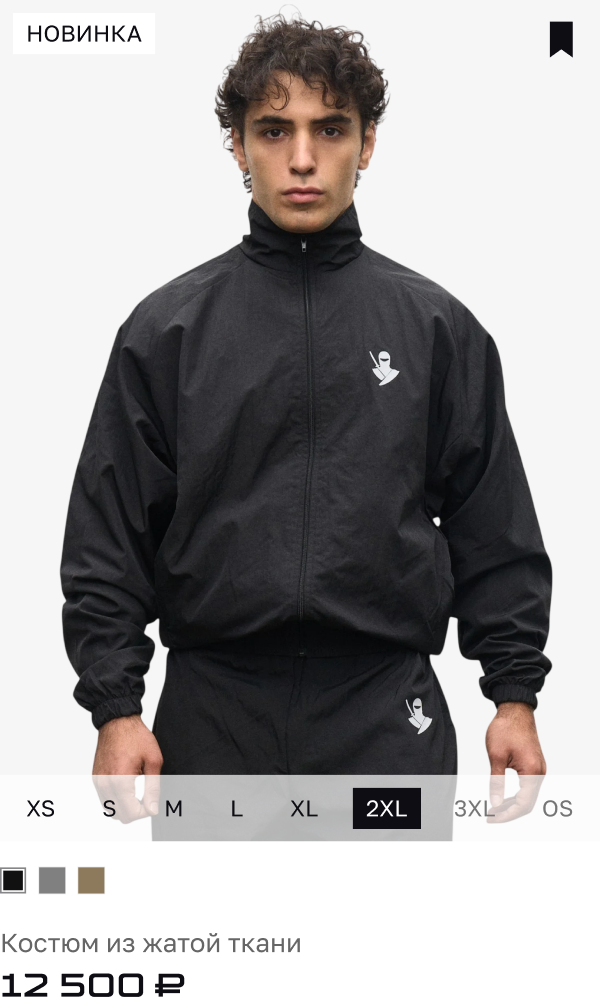
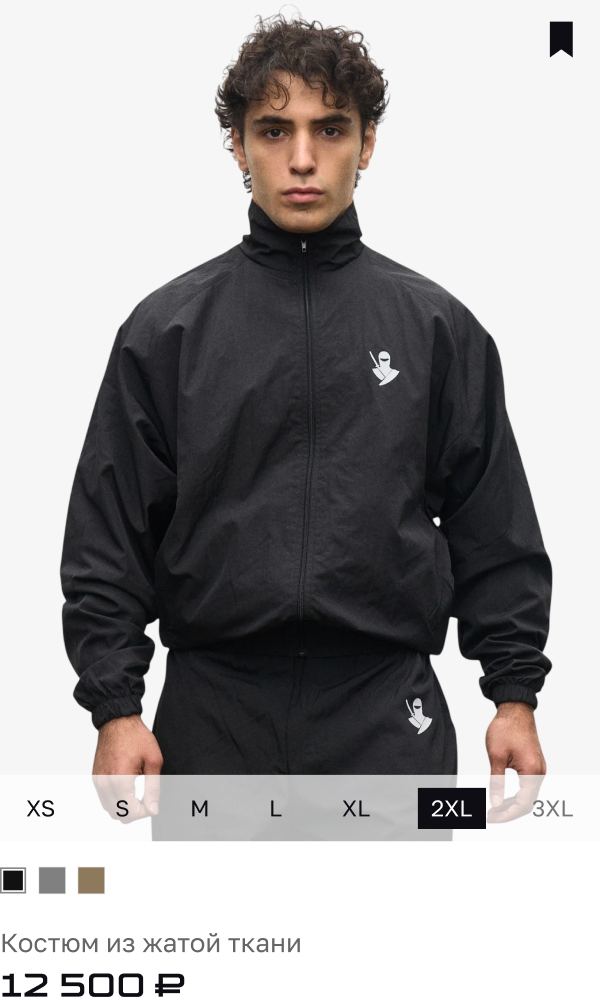
Блок 11: без «Новинки» и без OS в карточках

diff --git a/index.html b/index.html
@@ -336,9 +336,9 @@
         <div class="t k-meta" style="left:48px;top:48px">11  ·  Карточка товара</div>
         <div class="t k-meta" style="right:48px;top:48px;text-align:right">Система</div>
         <!-- Герой: место под видео взаимодействия с карточкой. Сейчас — первый кадр (hero.png). Видео вставим в конце:
-             <video src="assets/videos/…mp4" poster="assets/card/hero.png" muted loop playsinline preload="none"></video> -->
+             <video src="assets/videos/…mp4" poster="assets/card/hero.png?v=2" muted loop playsinline preload="none"></video> -->
         <div class="k-hero">
-          <div class="k-video"><img src="assets/card/hero.png" alt="Карточка товара: костюм из жатой ткани, 12 500 ₽" loading="lazy"></div>
+          <div class="k-video"><img src="assets/card/hero.png?v=2" alt="Карточка товара: костюм из жатой ткани, 12 500 ₽" loading="lazy"></div>
           <img class="play" src="assets/icons/play.svg" alt="" aria-hidden="true">
         </div>
         <div class="t k-txt" style="left:158px;top:390.8px;width:240px">Фото листаются по&nbsp;зонам наведения</div>
@@ -354,8 +354,8 @@
         <div class="r k-line" style="left:884px;top:735.3px;width:102px;height:1px"></div>
         <div class="r k-line" style="left:550px;top:862px;width:436px;height:1px"></div>
         <div class="k-story">
-          <img style="left:24px" src="assets/card/frame-1.png" alt="Кадр 1: обычная карточка" loading="lazy">
-          <img style="left:372px" src="assets/card/frame-2.png" alt="Кадр 2: выбор размера на фото, товар в избранном" loading="lazy">
+          <img style="left:24px" src="assets/card/frame-1.png?v=2" alt="Кадр 1: обычная карточка" loading="lazy">
+          <img style="left:372px" src="assets/card/frame-2.png?v=2" alt="Кадр 2: выбор размера на фото, товар в избранном" loading="lazy">
           <img style="left:720px" src="assets/card/frame-3.png" alt="Кадр 3: нет в наличии, «Уведомить о поступлении»" loading="lazy">
         </div>
       </div>
